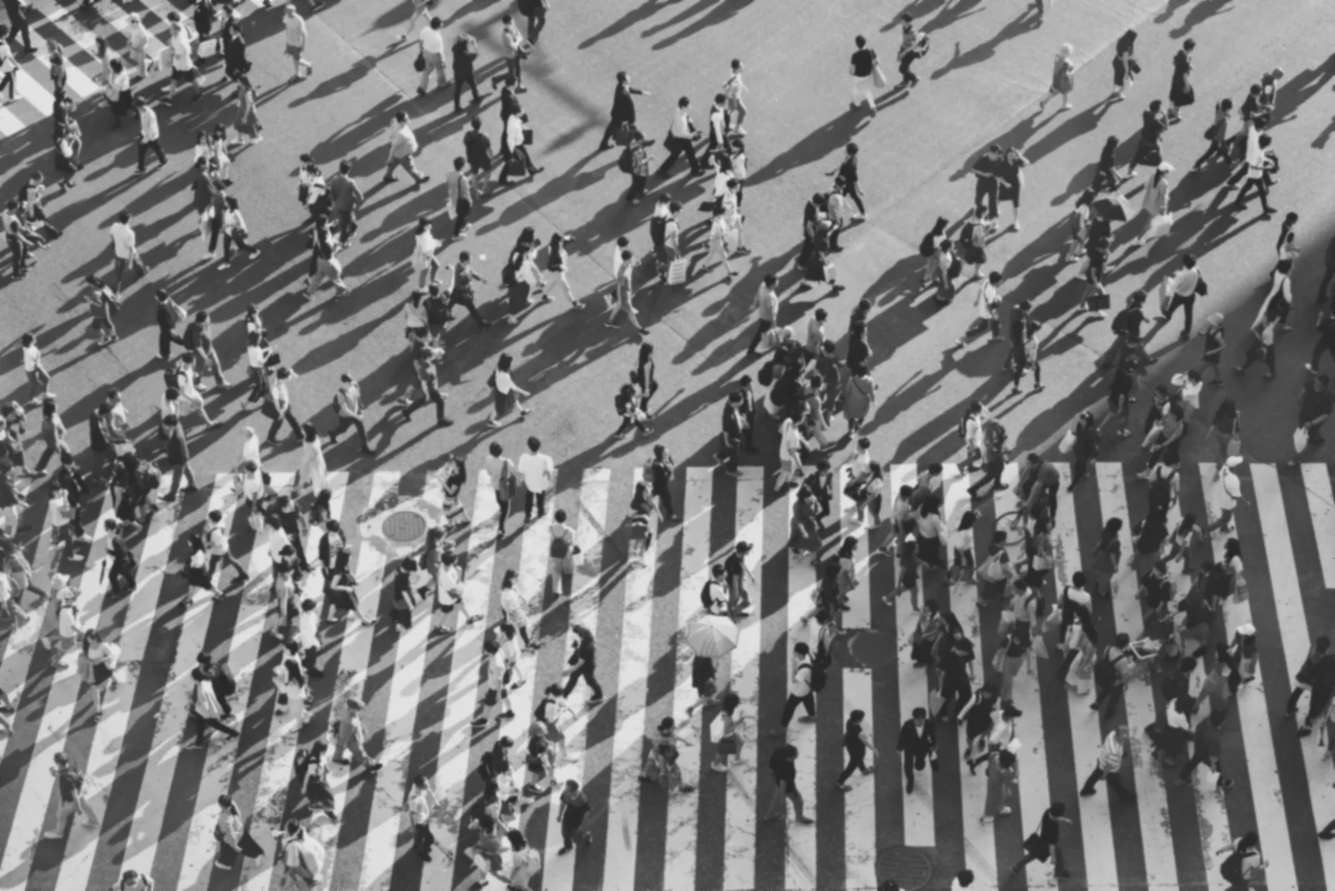
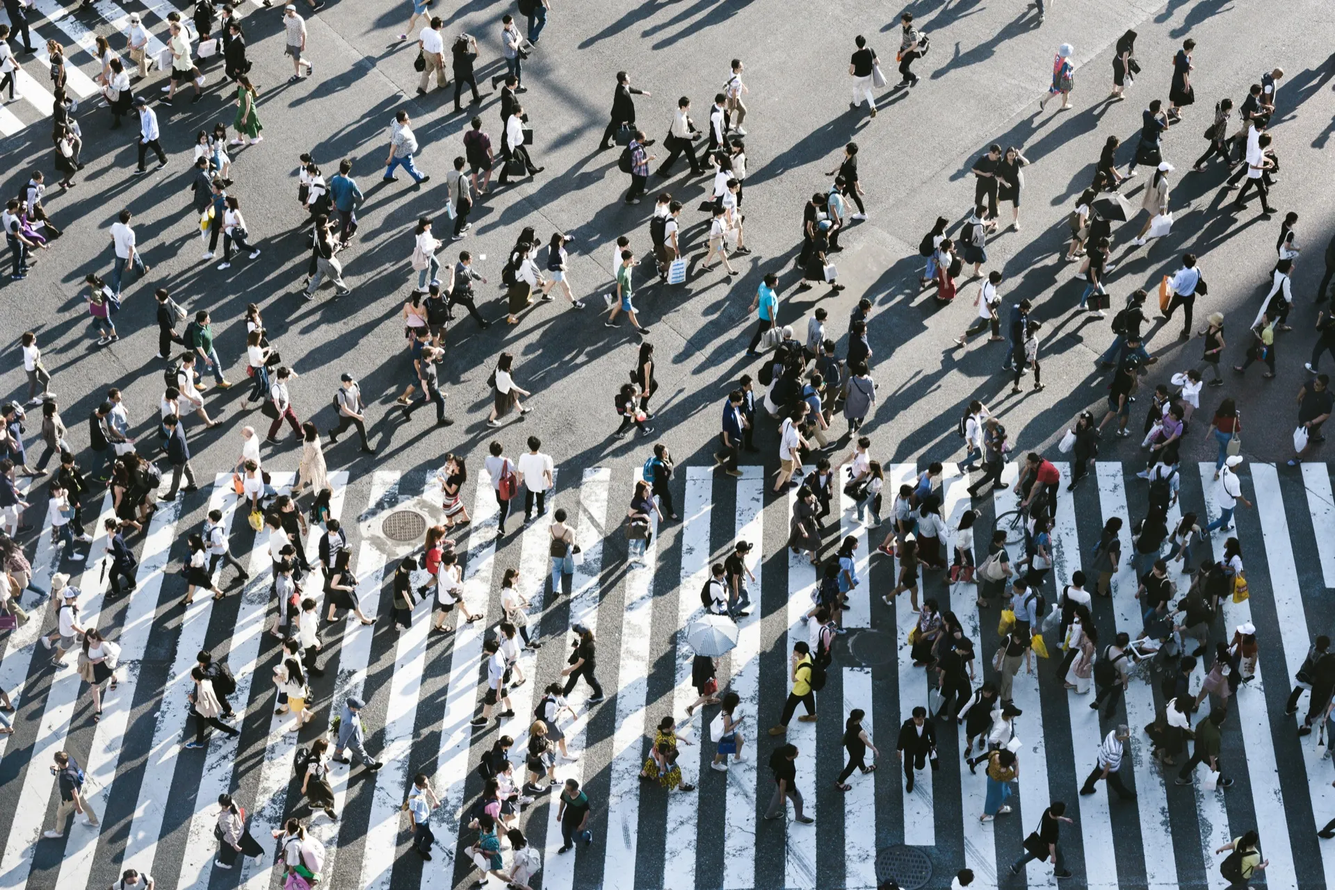
style: overview on a white panel over the full-colour crowd photo
Orson found the faint grey photo too hard to see. The overview now sits
on a white panel at 90% opacity, in the style of the Join Us panel, at
most 1040px wide, so the photo shows in its own colours around it.

- Desktop: the photo covers the section and stays fixed while scrolling.
- Phones: a taller band of photo above the panel, kept at 700px height
  instead of being enlarged to cover a 2000px section.
- More contrast: no photo, solid panel. Less transparency: solid panel.
  Less motion: the photo scrolls.
- Worst-case text contrast on the panel is 7.1:1 (over a black pixel).

The photo is a stand-in while Orson considers other photos.

diff --git a/assets/scss/custom.scss b/assets/scss/custom.scss
@@ -1057,41 +1057,73 @@ html {
   }
 }
 
-// The faint photo behind the hero, so the first thing a visitor sees is not a
-// plain grey page (Orson's request). The theme draws it on `.home-section-bg`
-// from `design.background.image` in content/_index.md, sized to cover, and
-// keeps it fixed while the page scrolls on screens 992px and wider. The file
-// (`assets/media/hero-crowd.webp`) is already grey, lower in contrast and
-// slightly blurred, so only its strength and a fade are set here. The fade
-// ends at the bottom of the section, so the hero meets the Lab News band
-// without an edge.
-.sea-hero .home-section-bg.bg-image {
-  opacity: 0.09;
-  -webkit-mask-image: linear-gradient(to bottom, #000 50%, transparent 100%);
-  mask-image: linear-gradient(to bottom, #000 50%, transparent 100%);
+// The overview sits on a white panel over a full-colour photo of a crowd, in
+// the style of the Join Us panel further down (Orson's request). The panel is
+// the section's `.container`: at most 1040px wide and at least 2rem from each
+// window edge, so the photo shows in full colour around it and only faintly
+// through it. The text keeps full contrast on the 90% white. The theme draws
+// the photo on `.home-section-bg` from `design.background.image` in
+// content/_index.md, sized to cover, and keeps it fixed while the page scrolls
+// on screens 992px and wider.
+.sea-hero.home-section {
+  padding: 4.5rem 0;
 }
 
-// Below 992px the photo scrolls with the page, and covering the tall phone
-// hero would enlarge it about 2x, turning the walkers into blobs. Instead it
-// keeps about its desktop size, starts at the top, and fades out by 1100px or
-// the bottom of the section, whichever comes first.
+.sea-hero > .container {
+  width: calc(100% - 4rem);
+  max-width: 1040px;
+  padding: 2.25rem 3rem 2.5rem;
+  border-radius: 12px;
+  background: rgba(255, 255, 255, 0.9);
+  box-shadow: 0 8px 30px rgba(0, 0, 0, 0.18);
+  -webkit-backdrop-filter: blur(3px);
+  backdrop-filter: blur(3px);
+}
+
 @media (max-width: 991.98px) {
-  .sea-hero .home-section-bg.bg-image {
-    opacity: 0.08;
-    background-size: auto 1100px;
-    background-position: center top;
-    // `unquote` passes the CSS min() through, which Sass would otherwise try to
-    // work out itself and fail on, because it mixes px and %.
-    -webkit-mask-image: unquote("linear-gradient(to bottom, #000 min(650px, 50%), transparent min(1100px, 100%))");
-    mask-image: unquote("linear-gradient(to bottom, #000 min(650px, 50%), transparent min(1100px, 100%))");
+  .sea-hero > .container {
+    width: calc(100% - 3rem);
+    padding: 2rem 2rem 2.25rem;
   }
 }
 
-// No photo for visitors who ask their system for more contrast, and no fixed
-// background for those who ask for less motion.
+// Phones: the hero is about 2000px tall here, so covering it would enlarge the
+// photo about 1.5x past its own size and blur it. Instead the photo keeps a
+// 700px height and starts at the top, where a taller band of it shows above
+// the panel, and repeats down the narrow margins beside the panel.
+@media (max-width: 767.98px) {
+  .sea-hero.home-section {
+    padding: 5rem 0 2.5rem;
+  }
+
+  .sea-hero .home-section-bg.bg-image {
+    background-size: auto 700px;
+    background-position: center top;
+    background-repeat: repeat-y;
+  }
+
+  .sea-hero > .container {
+    width: calc(100% - 1.5rem);
+    padding: 1.5rem 1.25rem;
+  }
+}
+
+// Visitors who ask their system for more contrast get no photo and a solid
+// panel, those who ask for less transparency get a solid panel, and those who
+// ask for less motion get a photo that scrolls with the page.
 @media (prefers-contrast: more) {
   .sea-hero .home-section-bg.bg-image {
     display: none;
+  }
+
+  .sea-hero > .container {
+    background: #fff;
+  }
+}
+
+@media (prefers-reduced-transparency: reduce) {
+  .sea-hero > .container {
+    background: #fff;
   }
 }
 
@@ -1170,7 +1202,7 @@ html {
   line-height: 1.3;
   text-align: center;
   text-transform: uppercase;
-  color: rgba(0, 0, 0, 0.68); // a little darker than the filter labels, for the photo behind it
+  color: rgba(0, 0, 0, 0.68); // a little darker than the filter labels, for the photo faintly behind the panel
 }
 
 // The research directions under each pillar (shortcode

diff --git a/README.md b/README.md
@@ -165,7 +165,7 @@ Every publication belongs to one or more research directions. The [Research Page
 
 ## Credits
 
-The faint photo behind the homepage overview (`assets/media/hero-crowd.webp`) is [Shibuya Crossing by Ryoji Iwata on Unsplash](https://unsplash.com/photos/crowd-walking-across-shibuya-crossing-IBaVuZsJJTo), free to use under the [Unsplash License](https://unsplash.com/license). It was turned grey, lowered in contrast, and slightly blurred. To swap it, put the new file in `assets/media/`, change `filename` under `background` in `content/_index.md`, and adjust its strength in `.sea-hero .home-section-bg` in `assets/scss/custom.scss`.
+The photo around the homepage overview (`assets/media/hero-crowd.webp`) is [Shibuya Crossing by Ryoji Iwata on Unsplash](https://unsplash.com/photos/crowd-walking-across-shibuya-crossing-IBaVuZsJJTo), free to use under the [Unsplash License](https://unsplash.com/license). It is shown in its own colours, only resized. To swap it, put the new file in `assets/media/` and change `filename` under `background` in `content/_index.md`. The white panel over it and how the photo sits on phones are set under `.sea-hero` in `assets/scss/custom.scss`.
 
 Our website is based on the following templates and tools:
 - [Hugo Research Group template](https://github.com/HugoBlox/theme-research-group), which this site started from.

diff --git a/content/_index.md b/content/_index.md
@@ -50,9 +50,9 @@ sections:
     design:
       columns: '1'
       css_class: sea-hero section-title-left-aligned
-      # A faint photo of people crossing a street, behind the overview. The file
-      # is already grey and softened. How strong it is and where it fades out
-      # are set under `.sea-hero .home-section-bg` in assets/scss/custom.scss.
+      # A full-colour photo of people crossing a street, around the white panel
+      # that holds the overview. The panel's size and how the photo is placed
+      # on phones are set under `.sea-hero` in assets/scss/custom.scss.
       # Photo: Ryoji Iwata on Unsplash (Unsplash License), see README Credits.
       background:
         image:
